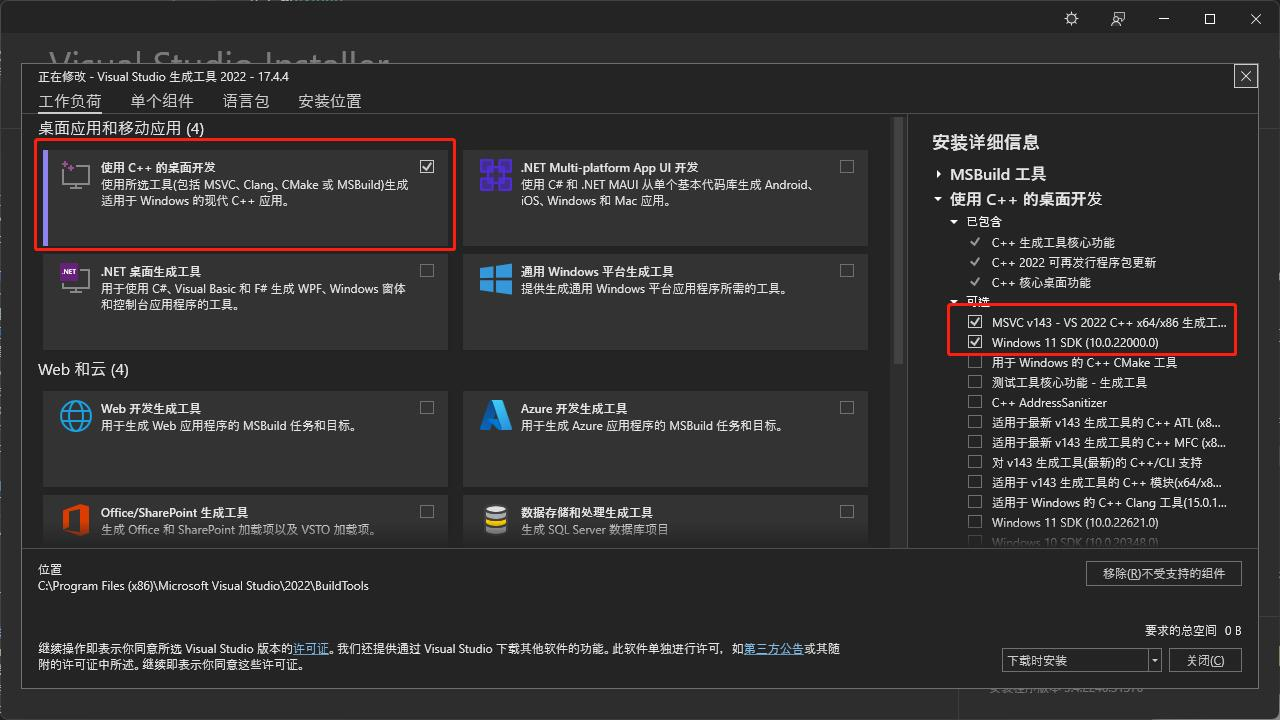
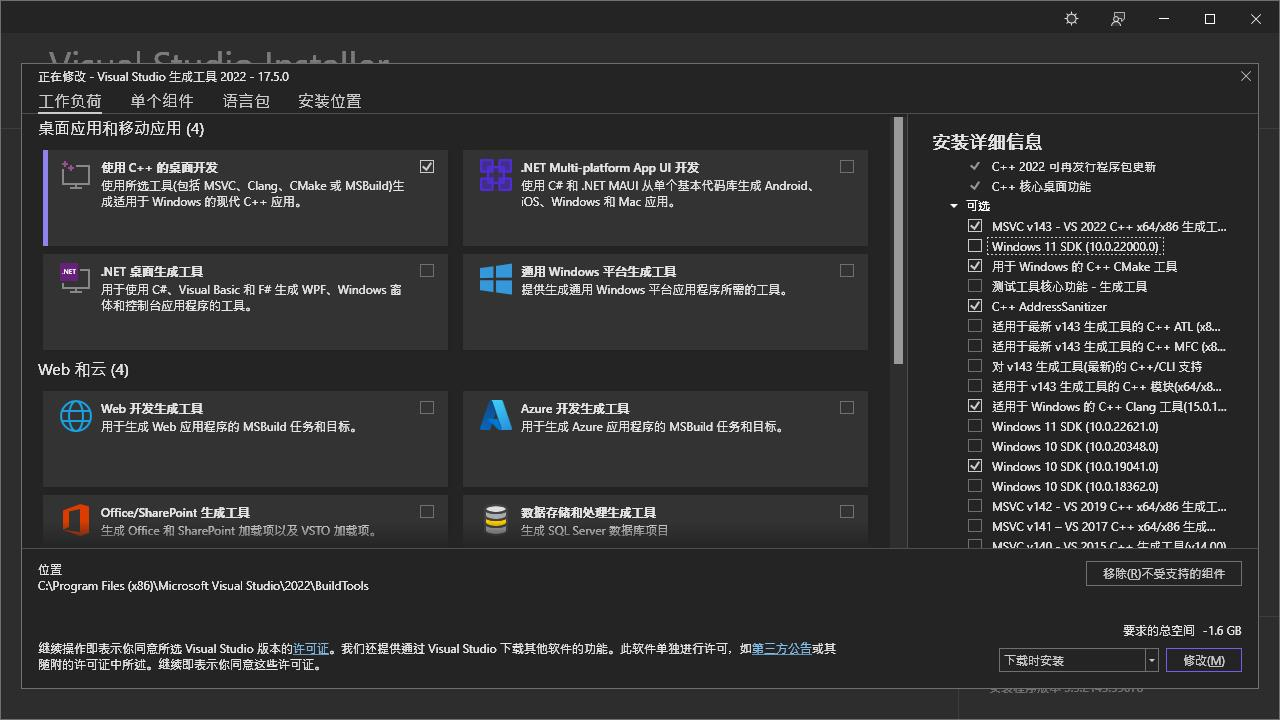
chore: update windows neovim config

diff --git a/docs/blog/windows-neovim-c.md b/docs/blog/windows-neovim-c.md
@@ -48,6 +48,8 @@ feature: true
 1. 下载[ripgrep](https://github.com/BurntSushi/ripgrep/releases)的 zip 文件
 2. 将解压后的文件夹添加进环境变量
 
+> 如果嫌弃文件夹名称太长，也可重命名后再添加环境变量。
+
 #### nvm
 
 1. 下载[nvm-setup.exe](https://github.com/coreybutler/nvm-windows/releases)
@@ -60,6 +62,12 @@ feature: true
 1. 下载[python](https://www.python.org/downloads/)
 2. 双击 exe 文件安装
 
+勾选 pip：
+![勾选pip](./img/windows_nvim/python_install1.jpg)
+
+勾选所有用户：
+![勾选所有用户](./img/windows_nvim/python_install2.jpg)
+
 > 建议自定义安装，注意勾选`pip`。
 
 #### MSBuild
@@ -69,15 +77,8 @@ feature: true
 3. 应该往下拉展开`适用于Visual Studio 2022 的工具`，选择`Visual Studio 2022 生成工具`进行下载
 ![下载Visual Studio 2022 生成工具](./img/windows_nvim/msbuild.jpg)
 4. 双击 exe 文件进行安装
-5. 在弹出的界面，左侧勾选`使用 C++ 的桌面开发`，右侧只需勾选`MSVC v143 *** 生成工具`和`Windows 11/10 SDK`即可
+5. 在弹出的界面，左侧勾选`使用 C++ 的桌面开发`，右侧按下图勾选即可
 ![安装 C++ 编译器和 SDK](./img/windows_nvim/msbuild_c++.jpg)
-
-#### CMake
-
-1. 下载[cmake*.msi](https://cmake.org/download/)
-2. 双击 msi 文件安装
-
-> 安装时记得勾选将CMake添加进系统环境变量。
 
 ### 命令行安装
 
@@ -132,6 +133,12 @@ nvm npm_mirror https://npmmirror.com/mirrors/npm/
     nvm use 19.4.0
     ```
 
+    5. 修改默认 npm 地址，使用国内源能加快访问速度：
+
+    ```powershell
+    npm config set registry https://registry.npmmirror.com
+    ```
+
 > 若使用`nvm`命令提示不命令行、函数、脚本或者可执行程序的名称，可能需要重启系统或 Windows 资源管理器
 
 ## 开发环境配置
@@ -157,31 +164,33 @@ User git
 
 #### Neovim 配置
 
-1. Neovim 配置对于刚接触的人可能比较复杂，其实就是配置一些插件，大部分插件的 github 都有其使用说明，这里为了方便，可以直接使用本人的[配置](https://github.com/Groveer/dotfiles/tree/master/nvim)，并且这里也对该配置的快捷键进行了说明，执行：
+1. Neovim 配置对于刚接触的人可能比较复杂，其实就是配置一些插件，大部分插件的 github 都有其使用说明，这里为了方便，可以直接使用本人的[配置](https://github.com/Groveer/nvimdots)，执行：
 
 ```powershell
-git clone https://github.com/Groveer/dotfiles.git
+git clone https://github.com/Groveer/nvimdots.git
 ```
 
 2. 创建软件，Neovim 读取配置是在固定的目录：
 
-```powershell
-mklink /d C:\Users\grove\AppData\Local\nvim D:\Project\dotfiles\nvim
+```cmd
+mklink /d C:\Users\grove\AppData\Local\nvim D:\Project\nvimdots
 ```
 
-其中，`grove`是本地账户名，`D:\Project\dotfiles`是 git clone 下来的项目，dotfiles 项目是本人在 Linux 下的[个人配置](https://github.com/Groveer/dotfiles)，有兴趣的可以看看
+其中，`grove`是本地账户名，`D:\Project\nvimdots`是 git clone 下来的项目
 
-3. 本人的 Neovim 配置使用 Packer 进行插件管理，首次启动 Neovim 会报错，忽略错误可进行插件安装：
+> 注意，本条命令要在 cmd 中执行，在 powershell 是没有该命令的！
+
+3. 本人的 Neovim 配置使用 Lazy.nvim 进行插件管理，首次启动会进行安装插件，因为默认使用 ssh 协议，请确保 git 使用 ssh 协议能够正确访问 github：
 
 ```powershell
 nvim
 ```
 
-4. 若部分插件安装失败，可重新执行命令进行更新：
+4. 初次启动可能会提示找不到 C 编译器，此时可以使用生成工具提供的终端进行启动：
 
-```powershell
-:PackerSync
-```
+![terminal](./img/windows_nvim/select_terminal.jpg)
+
+> 当然也可以对其启动目录进行修改，像本人就修改为`D:/Project`目录
 
 5. 一般来说，进行了上面的软件安装，Neovim 所需的程序就齐全了，当然也可以执行命令进行检查：
 
@@ -199,9 +208,9 @@ nvim
 
 #### 扩展字体配置
 
-1. 下载[FiraCode](https://github.com/ryanoasis/nerd-fonts/releases/download/v2.3.0/FiraCode.zip)字体
+1. 下载[Maple](https://github.com/subframe7536/Maple-font/releases/download/v6.2/MapleMono-SC-NF.zip)字体
 2. 解压文件后全选 ttf 文件，然后右键安装
-3. 终端：设置->默认值->字体，选择`FiraCode Nerd Font Mono Retina`，保存弹窗提示忽略
+3. 终端：设置->默认值->字体，选择`Maple Mono SC NF`，保存弹窗提示忽略
 4. 重启终端，进入 nvim，正常显示图标字体
 
-> 在配置过程中若遇到什么问题，可在博客下方进行留言。
+> 在配置过程中若遇到什么问题，可在博客中留言。
